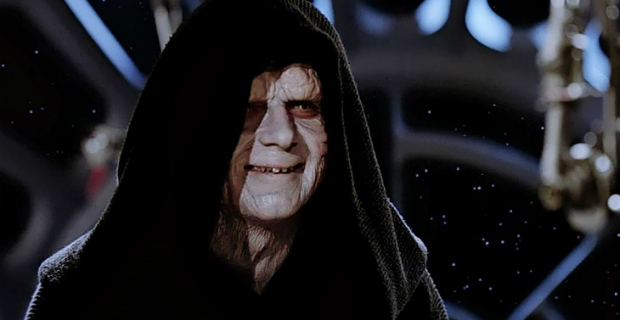
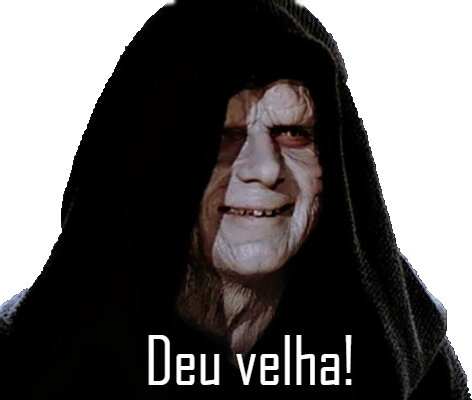
Add files via upload

diff --git a/JS/arquivo.js b/JS/arquivo.js
@@ -1,8 +1,6 @@
 var jogador1 = '<img src="img/lightsaber.png">';
-var jogador2 = '<img src="img/death-star.png">';
+var jogador2 = '<img src="img/sdeath-star.png">';
 var jogada = true;
-
-
 
 
 function clicar(area) {
@@ -13,16 +11,13 @@ function clicar(area) {
         } else if (!jogada) {
             area.innerHTML = jogador2;
             jogada = true;
-
         }
-        vitoria(area);
+        jogadores(area);
     }
 }
 
 
-
-
-function vitoria(area) {
+function jogadores(area) {
     var box1 = document.getElementById('box1');
     var box2 = document.getElementById('box2');
     var box3 = document.getElementById('box3');
@@ -38,7 +33,6 @@ function vitoria(area) {
     if ((box1.innerHTML == box2.innerHTML) && (box2.innerHTML == box3.innerHTML)) {
 
         vencedor = box1.innerHTML;
-
     }
 
     else if ((box4.innerHTML == box5.innerHTML) && (box5.innerHTML == box6.innerHTML)) {
@@ -68,15 +62,30 @@ function vitoria(area) {
     if (vencedor != '') {
         if (vencedor == jogador1) {
 
-            (alert("1° jogador ganhou"));
+        document.getElementById("mascara").style.backgroundImage = "url('img/yoda.png')";
+        document.getElementById("mascara").style.display = "block"
+        document.getElementById("mascara").style.backgroundRepeat = "no-repeat"
+        document.getElementById("mascara").style.backgroundPosition = "center";;
 
-        } else (alert("2° jogador ganhou"));
+        } else
 
+        document.getElementById("mascara").style.backgroundImage = "url('img/darth-vader.png')";
+        document.getElementById("mascara").style.display = "block"
+        document.getElementById("mascara").style.backgroundRepeat = "no-repeat"
+        document.getElementById("mascara").style.backgroundPosition = "center";
+    }
+    else if ((vencedor == '') && (box1.innerHTML && box2.innerHTML && box3.innerHTML && box4.innerHTML && box5.innerHTML && box6.innerHTML && box7.innerHTML && box8.innerHTML && box9.innerHTML)) {
+
+        document.getElementById("mascara").style.backgroundImage = "url('img/palpatine.png')";
+        document.getElementById("mascara").style.display = "block"
+        document.getElementById("mascara").style.backgroundRepeat = "no-repeat"
+        document.getElementById("mascara").style.backgroundPosition = "center"
 
     }
+
 }
-
-
 function novo(area) {
-    document.location.reload();
+    location.reload();
 }
+
+

diff --git a/css/style.css b/css/style.css
@@ -1,5 +1,5 @@
-.body {
-    color: #ffffff
+body {
+    background-color: #ffffff
 }
 
 * {
@@ -17,9 +17,6 @@ img {
     max-width: 100%;
 }
 
-ul {
-    list-style-type: none;
-}
 
 a {
     text-decoration: none;
@@ -30,7 +27,7 @@ a {
     flex-wrap: nowrap;
 }
 
-h2 {
+h1   {
     text-decoration: none;
     color: #000000;
     margin-left: center;
@@ -39,21 +36,6 @@ h2 {
     font-size: 1.5em;
 }
 
-h1 {
-    text-decoration: none;
-    color: #000000;
-    margin-left: 50px;
-    margin-right: 0px;
-    text-align: center;
-}
-
-p {
-    font-size: 2em;
-    color: #000000;
-    margin-left: 55px;
-    margin-right: 0px;
-    text-align: center;
-}
 
 .cabecalho {
     width: 100%;
@@ -120,4 +102,13 @@ p {
 #box {
     float: left;
     margin-right: 10px;
+}
+
+#mascara {
+    width: 100%;
+    height: 100%;
+    display: none;
+    position: absolute;
+    background-color: rgba(0, 0, 0, 0.70);
+    z-index: 4;
 }

diff --git a/index.html b/index.html
@@ -10,12 +10,13 @@
 </head>
 
 <body>
+    <div id="mascara"></div>
 
     <header class="cabecalho">
-        <h2>
+        <h1>
             <a href="index.html"> Jogo da Velha </a>
 
-        </h2>
+        </h1>
 
 
 
@@ -46,6 +47,10 @@
         </div>
 
     </div>
+
+
+
+
 
     <button class="button button1" onclick="novo()">Novo Jogo</button>
 
